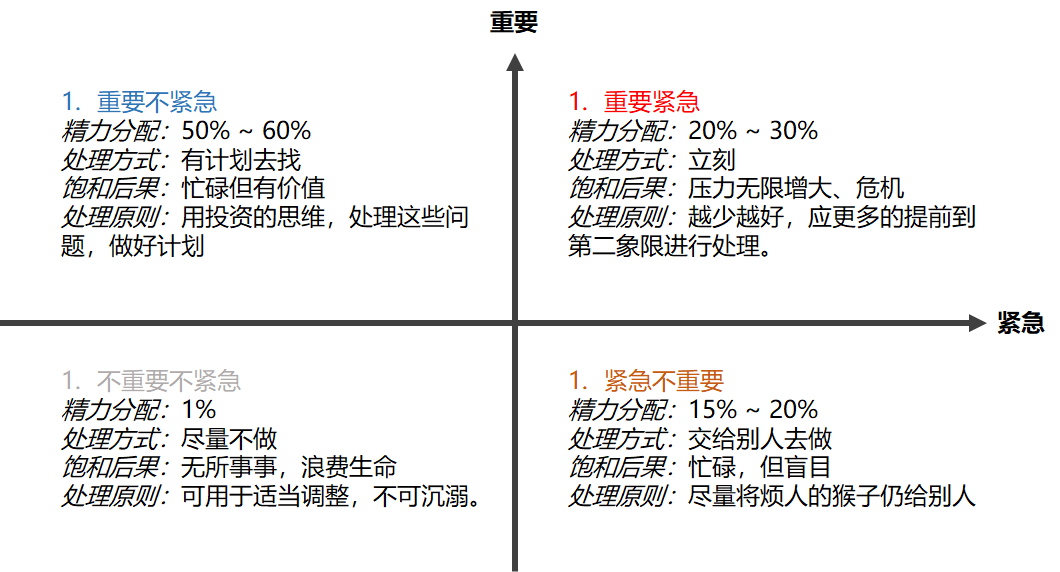
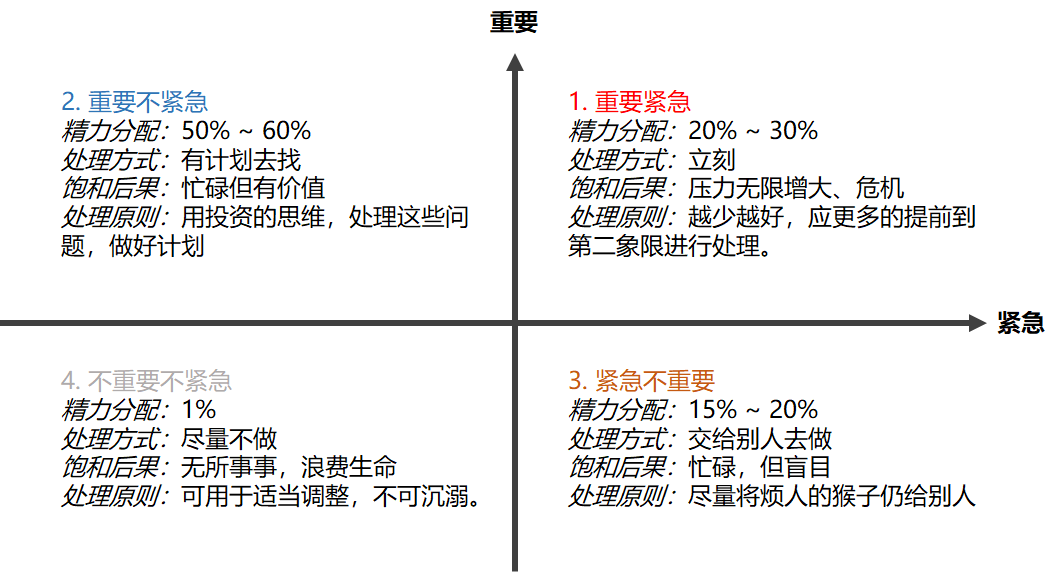
add

diff --git a/思想指导/如何进行高效时间管理.md b/思想指导/如何进行高效时间管理.md
@@ -6,6 +6,12 @@
 
 
 
+![img](https://timgsa.baidu.com/timg?image&quality=80&size=b9999_10000&sec=1595704692914&di=aacc1efef4b13b92b4799bf46646f9c5&imgtype=0&src=http%3A%2F%2Finews.gtimg.com%2Fnewsapp_bt%2F0%2F12149487928%2F1000.jpg)
+
+
+
+
+
 ## 为什么进行时间管理？
 
 感觉自己总有做不完的事情，为什么？
@@ -62,7 +68,7 @@
 
 如何制定有效计划？
 
-有效目标的特征有哪些？
+有效计划的特征有哪些？
 
 
 
@@ -81,6 +87,23 @@
 
 
 ![时间管理四象限](./image/时间管理四象限.png)
+
+
+
+这么划分之后，如何割舍和替换的操作方式就很明确了。
+
+* 应将大部分时间尽量放在重要的事情上，尽量割舍掉不重要的事情。
+* 将工作的中心尽量替换为重要不紧急的事情上面，对不重要的事情尽量替换为重要事情。
+
+
+
+事情的优先级有就由此划分出来： 依次是   1. 重要紧急 > 2. 重要不紧急 > 3. 紧急不重要 > 4. 不重要不紧急 
+
+### 怎么区分哪些事情是重要的呢？
+
+像理财一样，我们要有投资的眼光分析问题。如果一个事情，长期来看是对自身有极大好处的，那么久可以定义为重要的。
+
+
 
 
 
